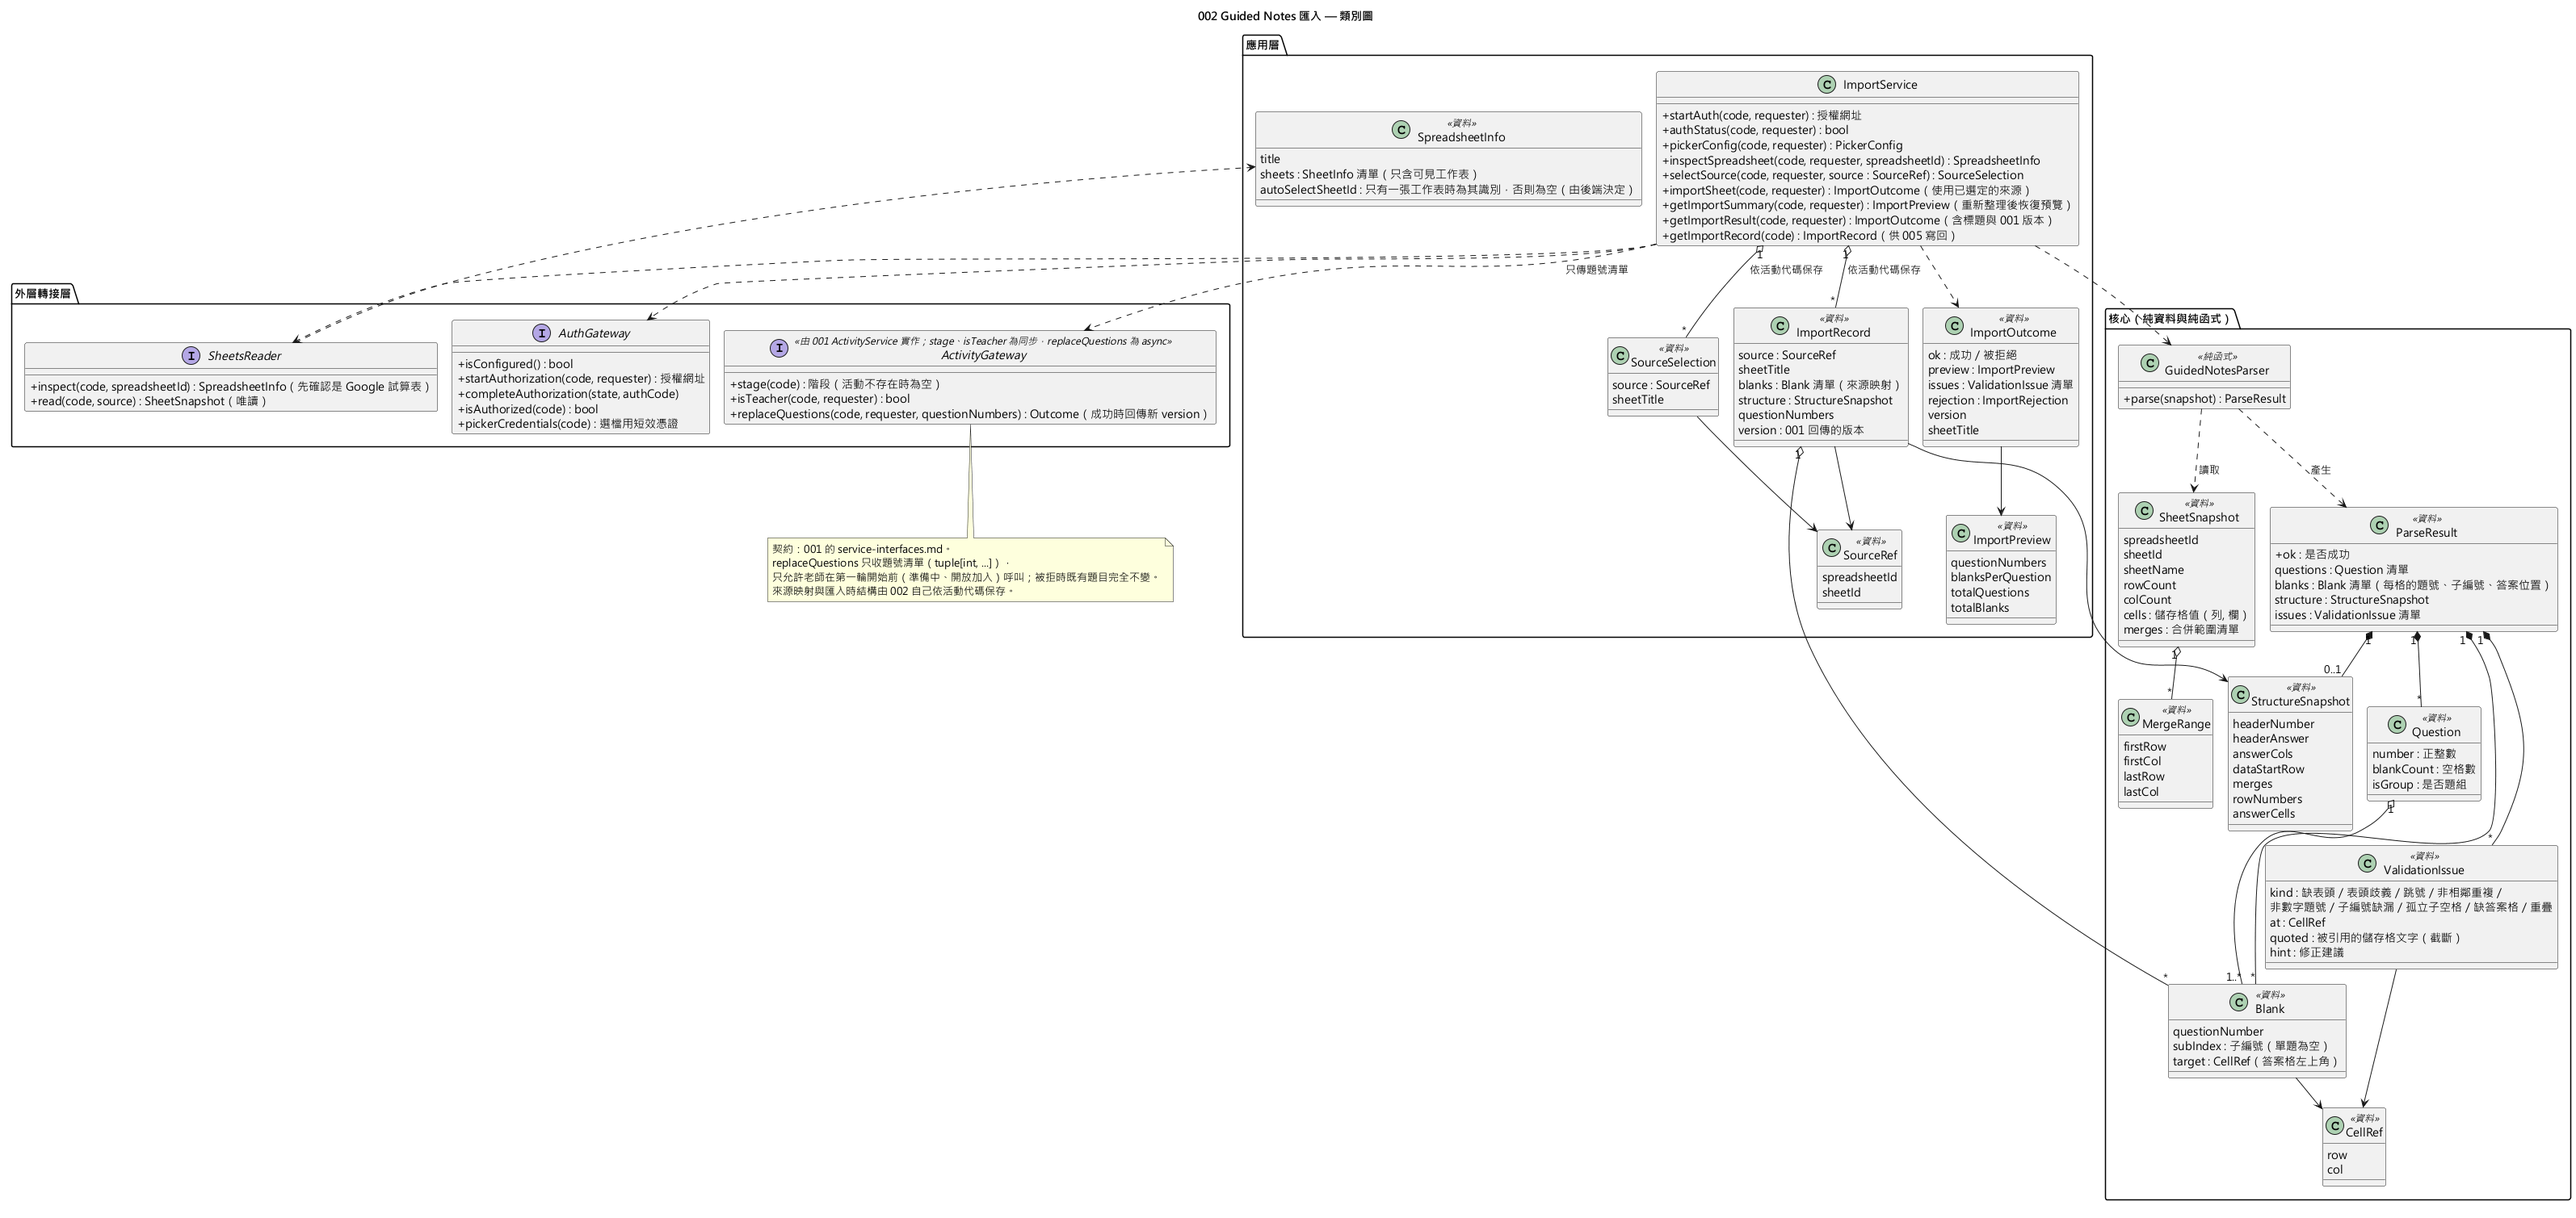
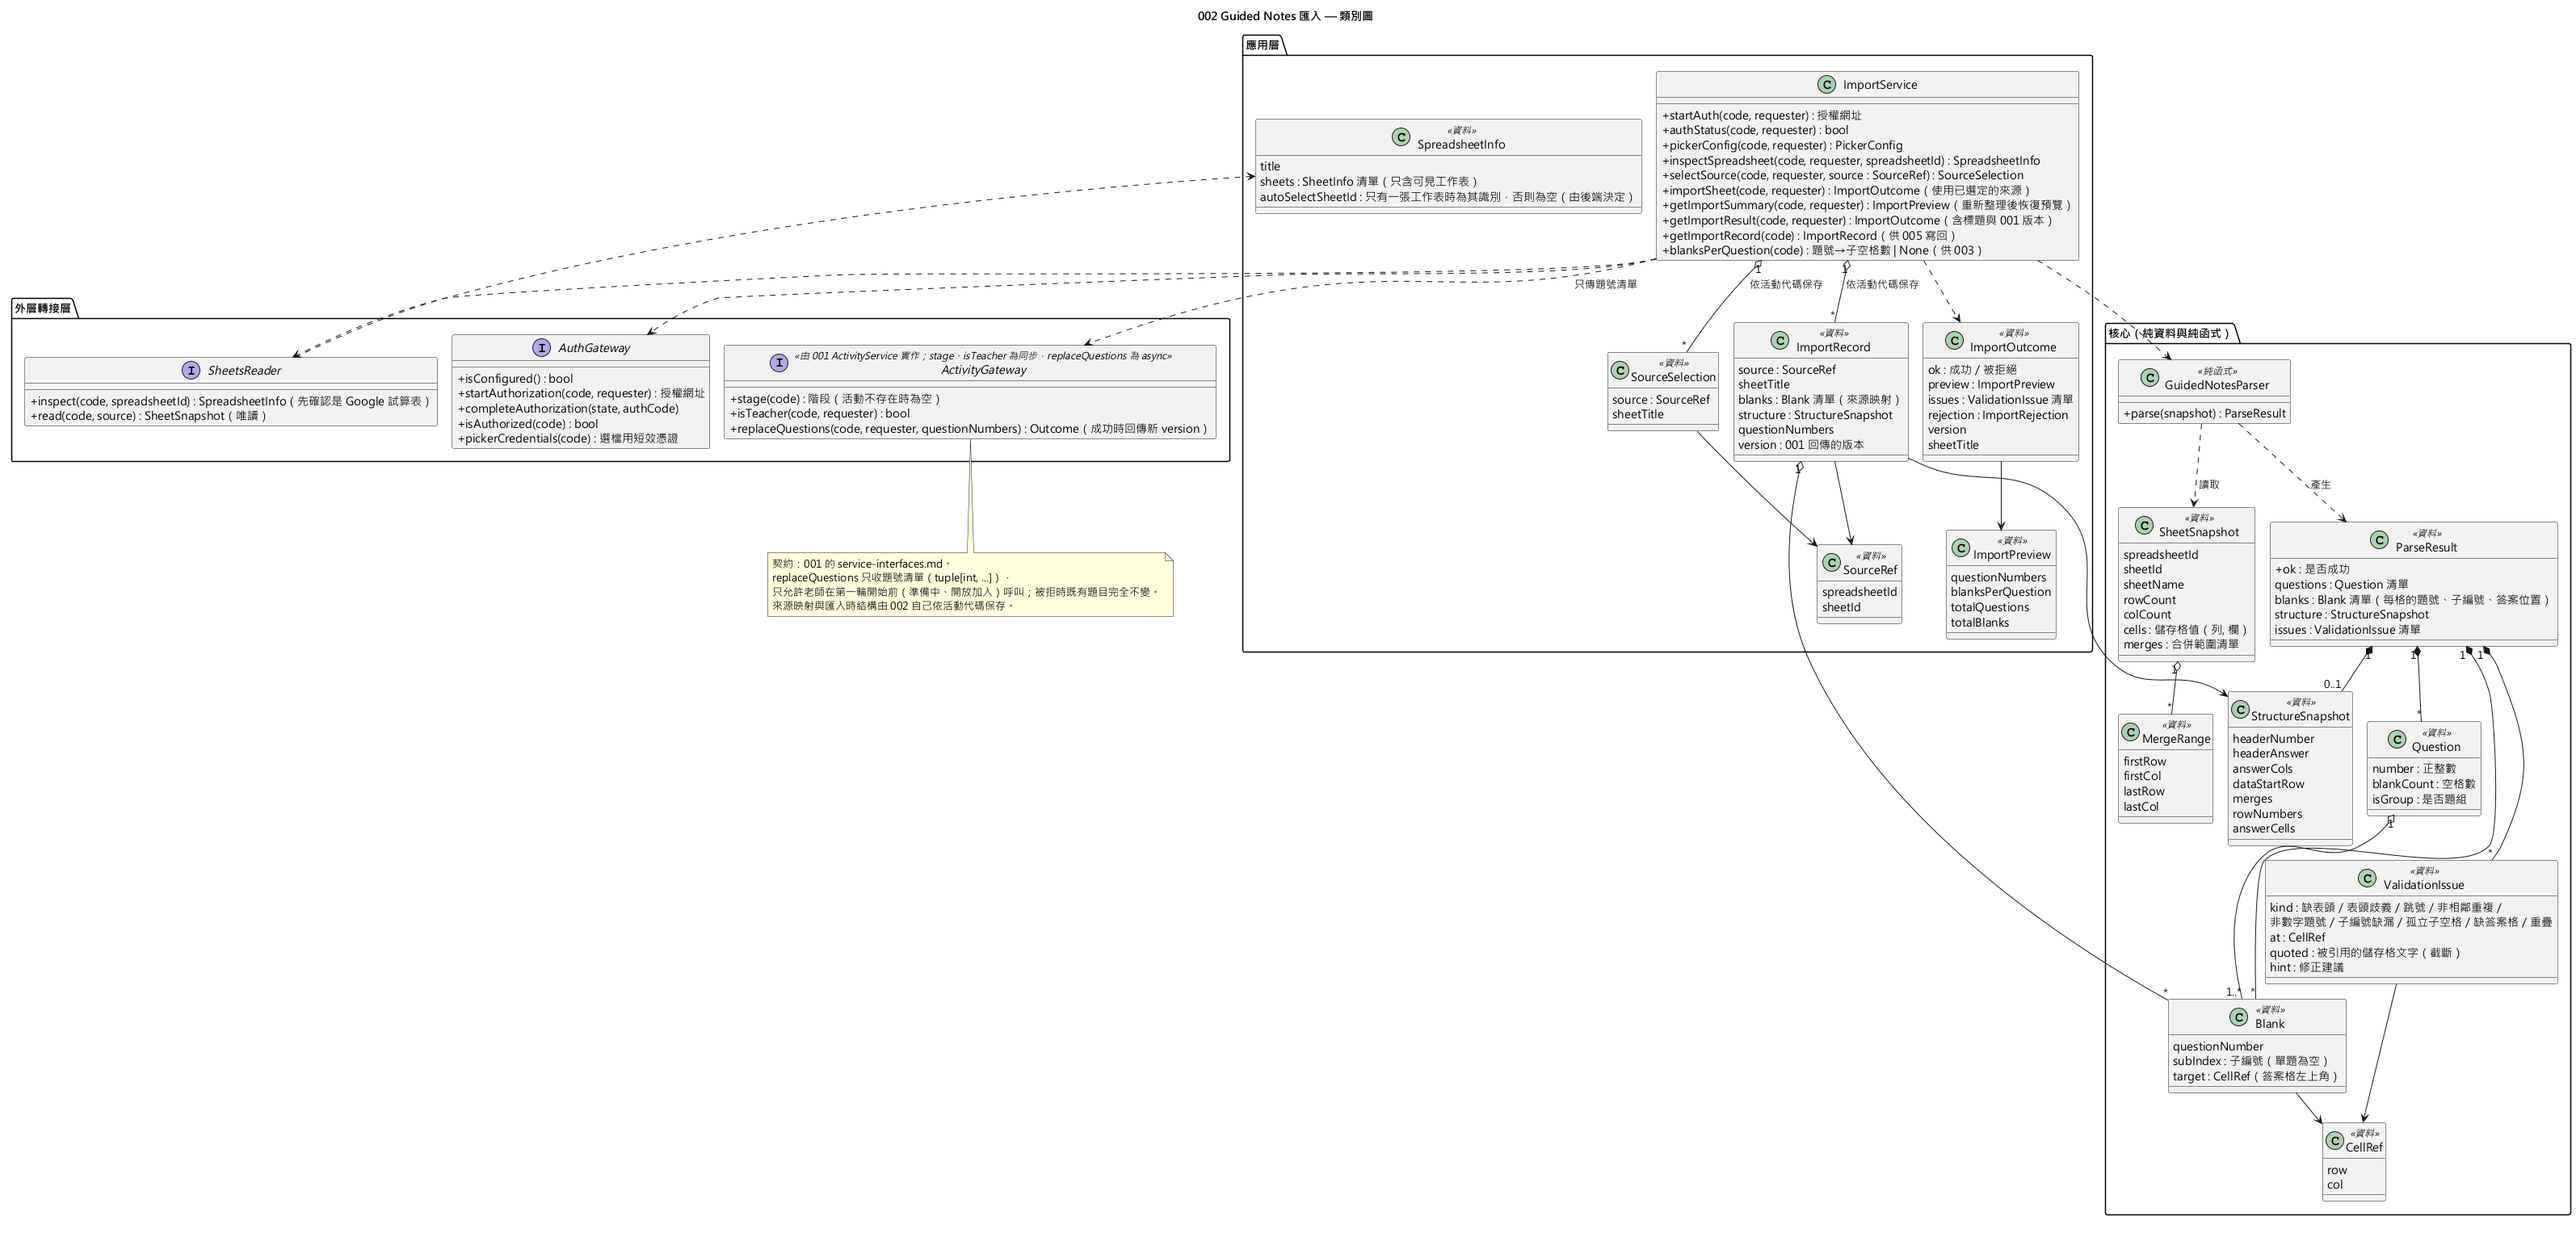
feat: ImportService.blanks_per_question 提供 003 每題子空格數（T083）(#6)
- 由最後一次成功匯入的 ImportRecord.blanks 計數；未匯入回 None；
  重新匯入成功後更新、失敗時維持舊值；回傳唯讀對應
- 類別圖補上方法並重新轉出 PNG；併入 #11 的審查修改與最新 main

diff --git a/tests/unit/app/guided_notes_import/test_blanks_per_question.py b/tests/unit/app/guided_notes_import/test_blanks_per_question.py
@@ -1,0 +1,57 @@
+"""給 003 的介面：每題子空格數（contracts/service-interfaces.md「給 003」、T083）。"""
+
+import asyncio
+
+import pytest
+
+from lecture_quiz.app.guided_notes_import.models import SourceRef
+from tests.fixtures.guided_notes_layouts import defect_cases
+from tests.unit.app.guided_notes_import.conftest import CODE, SPREADSHEET
+from tests.unit.app.guided_notes_import.fakes import TEACHER
+
+
+def run(coro):
+    return asyncio.run(coro)
+
+
+def import_sheet(service, sheet_id):
+    run(service.select_source(CODE, TEACHER, SourceRef(SPREADSHEET, sheet_id)))
+    return run(service.import_sheet(CODE, TEACHER))
+
+
+def test_none_before_any_successful_import(service):
+    assert service.blanks_per_question(CODE) is None
+
+
+def test_unknown_activity_gives_none(service):
+    assert service.blanks_per_question("NOPE99") is None
+
+
+def test_mixed_layout_counts_blanks_per_question(service):
+    """原始題組範例：4 題 6 格 → 前兩題各 2 格、後兩題各 1 格。"""
+    assert import_sheet(service, 0).ok
+    assert dict(service.blanks_per_question(CODE)) == {1: 2, 2: 2, 3: 1, 4: 1}
+
+
+def test_reimport_updates_the_counts(service):
+    assert import_sheet(service, 0).ok
+    first = dict(service.blanks_per_question(CODE))
+    assert import_sheet(service, 7).ok  # 版面 B：4 題 7 格
+    second = dict(service.blanks_per_question(CODE))
+    assert sum(second.values()) == 7 and second != first
+
+
+def test_rejected_reimport_keeps_the_previous_counts(service, reader):
+    assert import_sheet(service, 0).ok
+    before = dict(service.blanks_per_question(CODE))
+    reader.snapshots[(SPREADSHEET, 0)] = defect_cases()["number_gap"].snapshot
+    assert not run(service.import_sheet(CODE, TEACHER)).ok
+    assert dict(service.blanks_per_question(CODE)) == before
+
+
+def test_returned_mapping_is_a_copy(service):
+    assert import_sheet(service, 0).ok
+    result = service.blanks_per_question(CODE)
+    with pytest.raises(TypeError):
+        result[1] = 99  # type: ignore[index]
+    assert dict(service.blanks_per_question(CODE)) == {1: 2, 2: 2, 3: 1, 4: 1}

diff --git a/src/lecture_quiz/app/guided_notes_import/service.py b/src/lecture_quiz/app/guided_notes_import/service.py
@@ -8,6 +8,7 @@
 """
 
 from collections.abc import Mapping
+from types import MappingProxyType
 
 from lecture_quiz.app.activity.ports import ActivityGateway, Clock, Requester
 from lecture_quiz.app.guided_notes_import.models import (
@@ -338,6 +339,26 @@ class ImportService:
                 sheet_title=record.sheet_title,
             )
         )
+
+    def blanks_per_question(self, code: str) -> Mapping[int, int] | None:
+        """給 003 使用：每題的子空格數（單題為 1）。
+
+        由最後一次成功匯入的 `ImportRecord.blanks` 依題號計數；重新匯入成功後跟著更新，
+        重新匯入失敗時記錄不變，所以回傳的仍是舊格數。唯讀、不呼叫 Google。
+
+        Args:
+            code: 活動代碼。
+
+        Returns:
+            題號 → 子空格數的唯讀對應；沒有成功匯入過（或活動不存在）時為 `None`。
+        """
+        record = self._store.records.get(code)
+        if record is None:
+            return None
+        counts: dict[int, int] = {}
+        for blank in record.blanks:
+            counts[blank.question_number] = counts.get(blank.question_number, 0) + 1
+        return MappingProxyType(counts)
 
     def get_import_record(self, code: str) -> ImportRecord | None:
         """給 005 使用：唯讀回傳最後一次成功匯入的記錄。

diff --git a/specs/002-guided-notes-import/tasks.md b/specs/002-guided-notes-import/tasks.md
@@ -254,7 +254,7 @@ description: "002-guided-notes-import 任務清單"
 
 **給 003 的介面（PR #11 審查追加，編號接在 T079 之後以免重編既有任務）**
 
-- [ ] T083 [US5] 在 `src/lecture_quiz/app/guided_notes_import/service.py` 的 `ImportService` 新增 `blanks_per_question(code) -> Mapping[int, int] | None`，實作 [contracts/service-interfaces.md](contracts/service-interfaces.md)「給 003」一節：由最後一次成功匯入的 `ImportRecord.blanks` 依題號計數（單題為 1），沒有成功匯入（或活動不存在）回 `None`；回傳新字典、唯讀、不需要請求者身分、不呼叫 Google；不得匯入 003 的任何型別。**先寫測試**於 `tests/unit/app/guided_notes_import/test_blanks_per_question.py` 並確認紅燈：未匯入回 `None`；單題與題組混合（4 題 6 格 → `{1: 2, 2: 2, 3: 1, 4: 1}`）；重新匯入成功後格數更新；重新匯入失敗（整份被拒）時維持舊格數；回傳字典被修改不影響下次結果。（依賴 T040、T058）
+- [X] T083 [US5] 在 `src/lecture_quiz/app/guided_notes_import/service.py` 的 `ImportService` 新增 `blanks_per_question(code) -> Mapping[int, int] | None`，實作 [contracts/service-interfaces.md](contracts/service-interfaces.md)「給 003」一節：由最後一次成功匯入的 `ImportRecord.blanks` 依題號計數（單題為 1），沒有成功匯入（或活動不存在）回 `None`；回傳新字典、唯讀、不需要請求者身分、不呼叫 Google；不得匯入 003 的任何型別。**先寫測試**於 `tests/unit/app/guided_notes_import/test_blanks_per_question.py` 並確認紅燈：未匯入回 `None`；單題與題組混合（4 題 6 格 → `{1: 2, 2: 2, 3: 1, 4: 1}`）；重新匯入成功後格數更新；重新匯入失敗（整份被拒）時維持舊格數；回傳字典被修改不影響下次結果。（依賴 T040、T058）
 
 **Checkpoint**: 老師可核對匯入結果，005 可取得來源映射與結構
 

diff --git a/specs/002-guided-notes-import/quickstart.md b/specs/002-guided-notes-import/quickstart.md
@@ -105,6 +105,7 @@ pytest -m "not real_google and not perf"
 | 2026-11-23 | EricC430 | T028 授權 → Picker → inspect | 通過（使用者回報） | 細節依使用者決定不記錄；先前因 `GOOGLE_APP_ID` 填成非專案編號而 404 `notFound`，更正後通過 |
 | 2026-11-23 | EricC430 | 真實路徑 B-1～B-13（版面 1、版面 2） | 通過（使用者回報） | 細節依使用者決定不記錄，**沒有 SC-006 秒數與題數可對照** |
 | 2026-11-23 | EricC430 的環境（Claude Code 執行） | T080～T082 後：`ruff check .`、`ruff format --check .`、`mypy`、`pytest -m "not real_google and not perf"` | 通過；188 個檔案格式正確；46 個檔案無型別問題；715 passed、2 deselected | 新增 `GOOGLE_APP_ID` 純數字驗證（紅燈 5 個測試後轉綠） |
+| 2026-11-24 | EricC430 的環境（Claude Code 執行） | 合併 #11 審查修改與最新 `main`、T083 後：`ruff check .`、`ruff format --check .`、`mypy`、`pytest -m "not real_google and not perf"` | 通過；189 個檔案格式正確；46 個檔案無型別問題；726 passed、2 deselected | 新增 `ImportService.blanks_per_question`（給 003），6 個測試先紅燈後轉綠 |
 | | jacky0407 | T076 非實作者人工驗證 | | 尚未執行 |
 
 - **實作者**：EricC430。**非實作者人工驗證**：jacky0407（執行 B 區並簽名，記錄日期與結果）。
